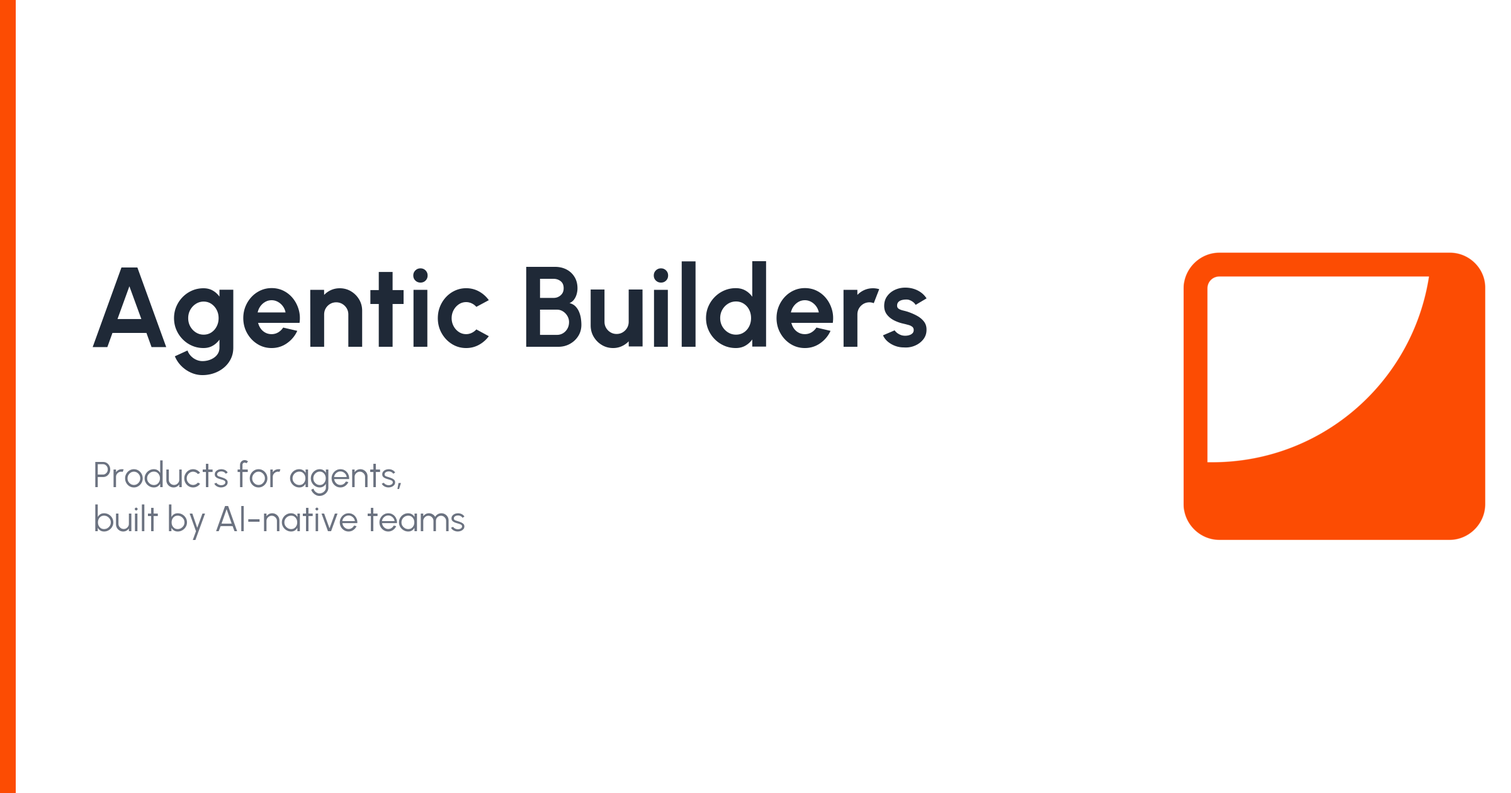
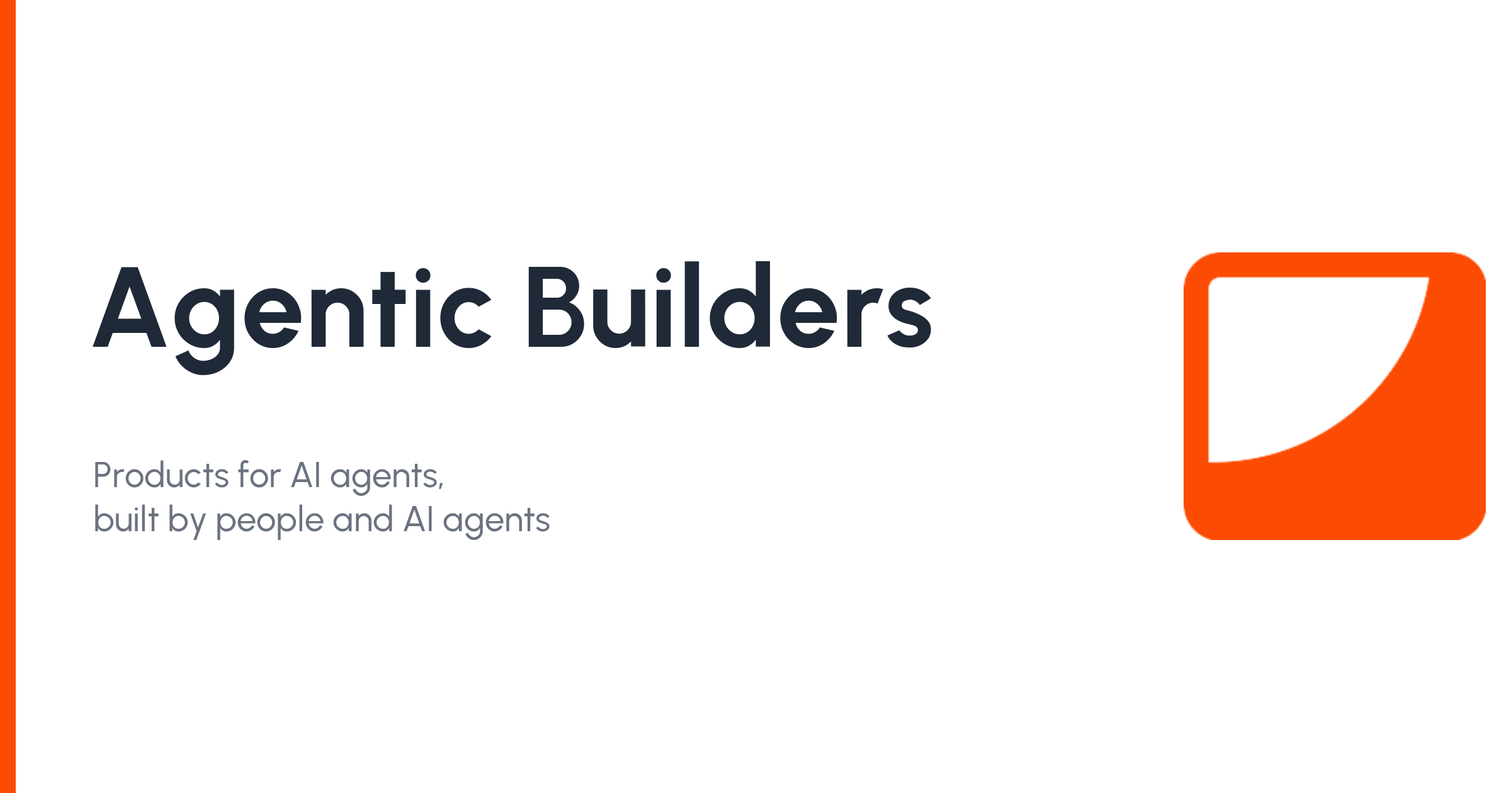
Distinguish AI agents from broader AI throughout fund copy

diff --git a/docs/portfolio/index.html b/docs/portfolio/index.html
@@ -7,8 +7,8 @@
 <meta name="theme-color" content="#FFFFFF">
 <meta name="color-scheme" content="light">
 <link rel="canonical" href="https://agenticbuilders.ai/portfolio/">
-<meta property="og:type" content="website"><meta property="og:url" content="https://agenticbuilders.ai/portfolio/"><meta property="og:title" content="Portfolio — Agentic Builders"><meta property="og:description" content="Meet the startups backed by Agentic Builders. Angels and VCs can contact us about portfolio companies and request introductions."><meta property="og:image" content="https://agenticbuilders.ai/og-image.png"><meta property="og:image:width" content="1200"><meta property="og:image:height" content="630"><meta property="og:image:alt" content="Agentic Builders"><meta property="og:site_name" content="Agentic Builders">
-<meta name="twitter:card" content="summary_large_image"><meta name="twitter:title" content="Portfolio — Agentic Builders"><meta name="twitter:description" content="Meet the startups backed by Agentic Builders. Angels and VCs can contact us about portfolio companies and request introductions."><meta name="twitter:image" content="https://agenticbuilders.ai/og-image.png">
+<meta property="og:type" content="website"><meta property="og:url" content="https://agenticbuilders.ai/portfolio/"><meta property="og:title" content="Portfolio — Agentic Builders"><meta property="og:description" content="Meet the startups backed by Agentic Builders. Angels and VCs can contact us about portfolio companies and request introductions."><meta property="og:image" content="https://agenticbuilders.ai/og-image.png?v=3"><meta property="og:image:width" content="1200"><meta property="og:image:height" content="630"><meta property="og:image:alt" content="Agentic Builders"><meta property="og:site_name" content="Agentic Builders">
+<meta name="twitter:card" content="summary_large_image"><meta name="twitter:title" content="Portfolio — Agentic Builders"><meta name="twitter:description" content="Meet the startups backed by Agentic Builders. Angels and VCs can contact us about portfolio companies and request introductions."><meta name="twitter:image" content="https://agenticbuilders.ai/og-image.png?v=3">
 <link rel="icon" type="image/svg+xml" href="../favicon.svg"><link rel="icon" type="image/x-icon" href="../favicon.ico"><link rel="apple-touch-icon" href="../apple-touch-icon.png">
 <link rel="describedby" type="text/plain" href="../llms.txt" title="llms.txt">
 <link rel="preconnect" href="https://fonts.googleapis.com"><link rel="preconnect" href="https://fonts.gstatic.com" crossorigin>
@@ -84,7 +84,7 @@
     <h1>Our portfolio</h1>
     <p class="lead2">Meet the companies we back: products AI agents use and tools for building agent products.</p>
     <div class="cta"><a class="pill pill-ghost" href="#introductions">For angels &amp; VCs</a></div>
-    <ul class="plist plist-detailed"><li class="rv"><a href="https://eqvesta.com/" target="_blank" rel="noopener"><img src="../portfolio-logos/eqvesta-logo.png" alt="" width="28" height="28" loading="lazy"><b>Eqvesta</b><span class="portfolio-summary">AI-native digital family office.</span><p class="portfolio-description">Developing an AI back office that brings accounts across countries and currencies into one view, tracks filing deadlines and prepares documents for a CPA. It does not hold or move money.</p></a></li><li class="rv"><a href="https://silow.ai" target="_blank" rel="noopener"><img src="../portfolio-logos/silow-logo.png" alt="" width="28" height="28" loading="lazy"><b>Silow</b><span class="portfolio-summary">Prioritized plans for AI adoption.</span><p class="portfolio-description">Maps how a team works across its existing tools and ranks automation opportunities by expected payback. Companies get an AI roadmap they own, with recommendations on what to automate and how to measure the results.</p></a></li><li class="rv"><a href="https://heron.ing/" target="_blank" rel="noopener"><img src="../portfolio-logos/heron-logo.svg" alt="" width="28" height="28" loading="lazy"><b>Heron</b><span class="portfolio-summary">Governance for AI agents.</span><p class="portfolio-description">Maps a company’s agents, processes and ownership. When people, agents or workflows change, it identifies what is affected and prepares updates for a person to approve.</p></a></li><li class="rv"><a href="https://kone.vc" target="_blank" rel="noopener"><img src="../portfolio-logos/kone-logo.svg" alt="" width="28" height="28" loading="lazy"><b>kone</b><span class="portfolio-summary">AI adoption for businesses.</span><p class="portfolio-description">Helps companies adopt ChatGPT Business, automate internal processes and build tailored AI applications. Provides training and implementation resources to help teams use AI in their daily work.</p></a></li><li class="rv"><a href="https://agentiqa.com" target="_blank" rel="noopener"><img src="../portfolio-logos/agentiqa-icon.png" alt="" width="28" height="28" loading="lazy"><b>Agentiqa</b><span class="portfolio-summary">Release checks for AI agents.</span><p class="portfolio-description">Checks what AI agents write to business systems such as ERP, CRM and billing. Tests data accuracy, retries and misuse before release, blocking releases when checks fail.</p></a></li><li class="rv"><a href="https://theona.ai" target="_blank" rel="noopener"><img src="../portfolio-logos/theona-logo.svg" alt="" width="28" height="28" loading="lazy"><b>Theona</b><span class="portfolio-summary">AI agents for team workflows.</span><p class="portfolio-description">Maps how teams work across conversations, meetings and task trackers, then builds agents into existing tools such as Slack, Teams and CRM systems. Agents start in draft mode for human review.</p></a></li><li class="rv"><a href="https://hookradar.net" target="_blank" rel="noopener"><img src="../portfolio-logos/hookradar-logo.png" alt="" width="28" height="28" loading="lazy"><b>HookRadar</b><span class="portfolio-summary">AI creative intelligence for marketers.</span><p class="portfolio-description">Analyzes live ads, organic content and competitor activity to identify creative patterns. Turns those signals into prioritized ideas and briefs that marketing teams can use to plan their next tests.</p></a></li><li class="rv"><a href="https://visibilitypro.ai" target="_blank" rel="noopener"><img src="../portfolio-logos/visibilitypro-logo.svg" alt="" width="28" height="28" loading="lazy"><b>VisibilityPro</b><span class="portfolio-summary">AI search visibility agency.</span><p class="portfolio-description">Combines technical website improvements, content production and external mentions to help brands appear in AI answers. Uses AI agents with human review and measures mentions, citations and referral traffic.</p></a></li><li class="rv"><a href="https://aprena.academy/" target="_blank" rel="noopener"><img src="../portfolio-logos/aprena-academy-icon.png" alt="" width="28" height="28" loading="lazy"><b>Aprena Academy</b><span class="portfolio-summary">AI-assisted career planning.</span><p class="portfolio-description">Helps experienced professionals explore realistic career paths using their existing skills, job market data and human support. Identifies skill gaps and offers practical learning and regular progress updates.</p></a></li><li class="rv"><a href="https://fina.team/" target="_blank" rel="noopener"><img src="../portfolio-logos/fina-logo.png" alt="" width="28" height="28" loading="lazy"><b>Fina</b><span class="portfolio-summary">AI agents for finance teams.</span><p class="portfolio-description">Processes invoices and bank statements, matches transactions with documents and prepares financial reports. Delivers files for finance teams to review and upload to their accounting systems.</p></a></li></ul>
+    <ul class="plist plist-detailed"><li class="rv"><a href="https://eqvesta.com/" target="_blank" rel="noopener"><img src="../portfolio-logos/eqvesta-logo.png" alt="" width="28" height="28" loading="lazy"><b>Eqvesta</b><span class="portfolio-summary">Digital family office with AI agents.</span><p class="portfolio-description">Developing AI agents that bring accounts across countries and currencies into one view, track filing deadlines and prepare documents for a CPA. It does not hold or move money.</p></a></li><li class="rv"><a href="https://silow.ai" target="_blank" rel="noopener"><img src="../portfolio-logos/silow-logo.png" alt="" width="28" height="28" loading="lazy"><b>Silow</b><span class="portfolio-summary">Prioritized plans for AI adoption.</span><p class="portfolio-description">Maps how a team works across its existing tools and ranks automation opportunities by expected payback. Companies get an AI roadmap they own, with recommendations on what to automate and how to measure the results.</p></a></li><li class="rv"><a href="https://heron.ing/" target="_blank" rel="noopener"><img src="../portfolio-logos/heron-logo.svg" alt="" width="28" height="28" loading="lazy"><b>Heron</b><span class="portfolio-summary">Governance for AI agents.</span><p class="portfolio-description">Maps a company’s agents, processes and ownership. When people, agents or workflows change, it identifies what is affected and prepares updates for a person to approve.</p></a></li><li class="rv"><a href="https://kone.vc" target="_blank" rel="noopener"><img src="../portfolio-logos/kone-logo.svg" alt="" width="28" height="28" loading="lazy"><b>kone</b><span class="portfolio-summary">AI adoption for businesses.</span><p class="portfolio-description">Helps companies adopt ChatGPT Business, automate internal processes and build tailored AI applications. Provides training and implementation resources to help teams use AI in their daily work.</p></a></li><li class="rv"><a href="https://agentiqa.com" target="_blank" rel="noopener"><img src="../portfolio-logos/agentiqa-icon.png" alt="" width="28" height="28" loading="lazy"><b>Agentiqa</b><span class="portfolio-summary">Release checks for AI agents.</span><p class="portfolio-description">Checks what AI agents write to business systems such as ERP, CRM and billing. Tests data accuracy, retries and misuse before release, blocking releases when checks fail.</p></a></li><li class="rv"><a href="https://theona.ai" target="_blank" rel="noopener"><img src="../portfolio-logos/theona-logo.svg" alt="" width="28" height="28" loading="lazy"><b>Theona</b><span class="portfolio-summary">AI agents for team workflows.</span><p class="portfolio-description">Maps how teams work across conversations, meetings and task trackers, then builds agents into existing tools such as Slack, Teams and CRM systems. Agents start in draft mode for human review.</p></a></li><li class="rv"><a href="https://hookradar.net" target="_blank" rel="noopener"><img src="../portfolio-logos/hookradar-logo.png" alt="" width="28" height="28" loading="lazy"><b>HookRadar</b><span class="portfolio-summary">AI agents for marketing teams.</span><p class="portfolio-description">Uses AI agents to find creative patterns in live ads, organic content and competitor activity. Turns those signals into prioritized ideas and briefs that marketing teams can use to plan their next tests.</p></a></li><li class="rv"><a href="https://visibilitypro.ai" target="_blank" rel="noopener"><img src="../portfolio-logos/visibilitypro-logo.svg" alt="" width="28" height="28" loading="lazy"><b>VisibilityPro</b><span class="portfolio-summary">AI search visibility agency.</span><p class="portfolio-description">Combines technical website improvements, content production and external mentions to help brands appear in AI answers. Uses AI agents with human review and measures mentions, citations and referral traffic.</p></a></li><li class="rv"><a href="https://aprena.academy/" target="_blank" rel="noopener"><img src="../portfolio-logos/aprena-academy-icon.png" alt="" width="28" height="28" loading="lazy"><b>Aprena Academy</b><span class="portfolio-summary">AI-assisted career planning.</span><p class="portfolio-description">Helps experienced professionals explore realistic career paths using their existing skills, job market data and human support. Identifies skill gaps and offers practical learning and regular progress updates.</p></a></li><li class="rv"><a href="https://fina.team/" target="_blank" rel="noopener"><img src="../portfolio-logos/fina-logo.png" alt="" width="28" height="28" loading="lazy"><b>Fina</b><span class="portfolio-summary">AI agents for finance teams.</span><p class="portfolio-description">Processes invoices and bank statements, matches transactions with documents and prepares financial reports. Delivers files for finance teams to review and upload to their accounting systems.</p></a></li></ul>
 <p class="fine portfolio-date">Last update: <time datetime="2026-10-20">October 20, 2026</time></p>
 
   </section>

diff --git a/docs/index.html b/docs/index.html
@@ -7,8 +7,8 @@
 <meta name="theme-color" content="#FFFFFF">
 <meta name="color-scheme" content="light">
 <link rel="canonical" href="https://agenticbuilders.ai/">
-<meta property="og:type" content="website"><meta property="og:url" content="https://agenticbuilders.ai/"><meta property="og:title" content="Agentic Builders — Early-stage fund for agent-native products"><meta property="og:description" content="Funding for agent-native products from idea to pre-seed. Investments of $30–100k, with a four-week investment track for invited teams."><meta property="og:image" content="https://agenticbuilders.ai/og-image.png"><meta property="og:image:width" content="1200"><meta property="og:image:height" content="630"><meta property="og:image:alt" content="Agentic Builders"><meta property="og:site_name" content="Agentic Builders">
-<meta name="twitter:card" content="summary_large_image"><meta name="twitter:title" content="Agentic Builders — Early-stage fund for agent-native products"><meta name="twitter:description" content="Funding for agent-native products from idea to pre-seed. Investments of $30–100k, with a four-week investment track for invited teams."><meta name="twitter:image" content="https://agenticbuilders.ai/og-image.png">
+<meta property="og:type" content="website"><meta property="og:url" content="https://agenticbuilders.ai/"><meta property="og:title" content="Agentic Builders — Early-stage fund for agent-native products"><meta property="og:description" content="Funding for agent-native products from idea to pre-seed. Investments of $30–100k, with a four-week investment track for invited teams."><meta property="og:image" content="https://agenticbuilders.ai/og-image.png?v=3"><meta property="og:image:width" content="1200"><meta property="og:image:height" content="630"><meta property="og:image:alt" content="Agentic Builders"><meta property="og:site_name" content="Agentic Builders">
+<meta name="twitter:card" content="summary_large_image"><meta name="twitter:title" content="Agentic Builders — Early-stage fund for agent-native products"><meta name="twitter:description" content="Funding for agent-native products from idea to pre-seed. Investments of $30–100k, with a four-week investment track for invited teams."><meta name="twitter:image" content="https://agenticbuilders.ai/og-image.png?v=3">
 <link rel="icon" type="image/svg+xml" href="favicon.svg"><link rel="icon" type="image/x-icon" href="favicon.ico"><link rel="apple-touch-icon" href="apple-touch-icon.png">
 <link rel="describedby" type="text/plain" href="llms.txt" title="llms.txt">
 <link rel="preconnect" href="https://fonts.googleapis.com"><link rel="preconnect" href="https://fonts.gstatic.com" crossorigin>
@@ -174,7 +174,7 @@
 
     <section id="who">
       <h2 class="t rv">Who we back</h2>
-      <p class="body-copy rv">We back AI-native teams that build lean companies with AI at the core of product development and day-to-day operations.</p>
+      <p class="body-copy rv">We back founders who build lean teams of people and AI agents, using agents across product development and day-to-day operations.</p>
       <p class="body-copy rv">Three things we look for:</p>
       <ol class="five rv"><li><span class="n">1</span><span><b>Experience.</b> You have built a startup, product or team before, and know what it takes.</span></li><li><span class="n">2</span><span><b>Founder-led sales.</b> Founders talk directly to customers and can secure a pilot or close a sale.</span></li><li><span class="n">3</span><span><b>Iteration speed.</b> You ship, test, learn and improve quickly.</span></li></ol>
       <p class="fine section-note rv">None of these is a formal requirement; together, they help us assess a team's potential.</p>
@@ -190,14 +190,14 @@
         
         <li class="note stage rv" style="--r:1deg"><span class="mn">2</span><h3>An investment decision</h3><p>At the end of the four weeks, the fund’s investment partners decide whether to invest and explain their decision. If we do not invest, we explain when it makes sense to come back.</p><ul class="gets"><li>Investment of $30–100k on a standard post-money SAFE</li><li>Valuation agreed with you, not a fixed share</li><li>Participation in the investment track is free, with no equity requirement or exclusivity</li></ul></li>
         
-        <li class="note stage rv" style="--r:-1deg"><span class="mn">3</span><h3>Help with your next round</h3><p>After investing, we help you raise your next funding round. We do not invest additional money in later rounds; we help you connect with other investors.</p><ul class="gets"><li>A list of relevant investors and personal introductions to investors who fund your next stage</li><li>A community of founders and weekly meetings with the fund team</li><li>One-on-one sessions with Nikolay Vyahhi, the fund’s general partner, and founder discussion groups on AI engineering, product development and sales</li><li>Additional software credits and discounts</li></ul></li>
+        <li class="note stage rv" style="--r:-1deg"><span class="mn">3</span><h3>Help with your next round</h3><p>After investing, we help you raise your next funding round. We do not invest additional money in later rounds; we help you connect with other investors.</p><ul class="gets"><li>A list of relevant investors and personal introductions to investors who fund your next stage</li><li>A community of founders and weekly meetings with the fund team</li><li>One-on-one sessions with Nikolay Vyahhi, the fund’s general partner, and founder discussion groups on building AI agents, product development and sales</li><li>Additional software credits and discounts</li></ul></li>
         
       </ol>
       <p class="fine section-note rv">Every application gets a reply. Application review has no fixed turnaround time; the four-week investment track begins only after an invitation. During the investment track, we ask for a short weekly progress update. Participation is free and requires no equity or exclusivity. Any investment is agreed separately.</p>
     </section>
 
     <section id="portfolio">
-      <h2 class="t rv">A few companies we back</h2><ul class="plist"><li class="rv"><a href="https://silow.ai" target="_blank" rel="noopener"><img src="portfolio-logos/silow-logo.png" alt="" width="28" height="28" loading="lazy"><b>Silow</b><span class="portfolio-summary">Prioritized plans for AI adoption.</span></a></li><li class="rv"><a href="https://eqvesta.com/" target="_blank" rel="noopener"><img src="portfolio-logos/eqvesta-logo.png" alt="" width="28" height="28" loading="lazy"><b>Eqvesta</b><span class="portfolio-summary">AI-native digital family office.</span></a></li><li class="rv"><a href="https://agentiqa.com" target="_blank" rel="noopener"><img src="portfolio-logos/agentiqa-icon.png" alt="" width="28" height="28" loading="lazy"><b>Agentiqa</b><span class="portfolio-summary">Release checks for AI agents.</span></a></li><li class="rv"><a href="https://heron.ing/" target="_blank" rel="noopener"><img src="portfolio-logos/heron-logo.svg" alt="" width="28" height="28" loading="lazy"><b>Heron</b><span class="portfolio-summary">Governance for AI agents.</span></a></li><li class="rv"><a href="https://kone.vc" target="_blank" rel="noopener"><img src="portfolio-logos/kone-logo.svg" alt="" width="28" height="28" loading="lazy"><b>kone</b><span class="portfolio-summary">AI adoption for businesses.</span></a></li><li class="rv"><a href="https://visibilitypro.ai" target="_blank" rel="noopener"><img src="portfolio-logos/visibilitypro-logo.svg" alt="" width="28" height="28" loading="lazy"><b>VisibilityPro</b><span class="portfolio-summary">AI search visibility agency.</span></a></li></ul>
+      <h2 class="t rv">A few companies we back</h2><ul class="plist"><li class="rv"><a href="https://silow.ai" target="_blank" rel="noopener"><img src="portfolio-logos/silow-logo.png" alt="" width="28" height="28" loading="lazy"><b>Silow</b><span class="portfolio-summary">Prioritized plans for AI adoption.</span></a></li><li class="rv"><a href="https://eqvesta.com/" target="_blank" rel="noopener"><img src="portfolio-logos/eqvesta-logo.png" alt="" width="28" height="28" loading="lazy"><b>Eqvesta</b><span class="portfolio-summary">Digital family office with AI agents.</span></a></li><li class="rv"><a href="https://agentiqa.com" target="_blank" rel="noopener"><img src="portfolio-logos/agentiqa-icon.png" alt="" width="28" height="28" loading="lazy"><b>Agentiqa</b><span class="portfolio-summary">Release checks for AI agents.</span></a></li><li class="rv"><a href="https://heron.ing/" target="_blank" rel="noopener"><img src="portfolio-logos/heron-logo.svg" alt="" width="28" height="28" loading="lazy"><b>Heron</b><span class="portfolio-summary">Governance for AI agents.</span></a></li><li class="rv"><a href="https://kone.vc" target="_blank" rel="noopener"><img src="portfolio-logos/kone-logo.svg" alt="" width="28" height="28" loading="lazy"><b>kone</b><span class="portfolio-summary">AI adoption for businesses.</span></a></li><li class="rv"><a href="https://visibilitypro.ai" target="_blank" rel="noopener"><img src="portfolio-logos/visibilitypro-logo.svg" alt="" width="28" height="28" loading="lazy"><b>VisibilityPro</b><span class="portfolio-summary">AI search visibility agency.</span></a></li></ul>
 <p class="fine portfolio-date">Last update: <time datetime="2026-10-20">October 20, 2026</time></p>
 
       <div class="cta rv"><a class="pill pill-ghost" href="portfolio/index.html">View all 10 companies</a></div>
@@ -219,7 +219,7 @@
 
   <aside class="panel">
     <p class="panel-title">Early-stage fund for agent-native products</p>
-    <p>Products agents use and tools for building agent products. From idea to pre-seed, for founders who build with people and agents.</p>
+    <p>Products agents use and tools for building agent products. From idea to pre-seed, for founders who build with people and AI agents.</p>
     <ul class="facts"><li><span>Investment track</span><span class="fact-value"><b>4 weeks</b><small>Fully online</small></span></li><li><span>Investment</span><span class="fact-value"><b>$30–100k</b></span></li></ul>
     <nav class="toc" aria-label="Sections"><a href="#thesis">Thesis</a><a href="#who">Who we back</a><a href="#track">Investment track</a><a href="portfolio/index.html">Portfolio</a><a href="team/index.html">Team</a><a href="#faq">Questions</a></nav>
   </aside>

diff --git a/docs/privacy/index.html b/docs/privacy/index.html
@@ -7,8 +7,8 @@
 <meta name="theme-color" content="#FFFFFF">
 <meta name="color-scheme" content="light">
 <link rel="canonical" href="https://agenticbuilders.ai/privacy/">
-<meta property="og:type" content="website"><meta property="og:url" content="https://agenticbuilders.ai/privacy/"><meta property="og:title" content="Privacy policy — Agentic Builders"><meta property="og:description" content="How Agentic Builders handles personal data from applications, progress updates, meetings and the newsletter."><meta property="og:image" content="https://agenticbuilders.ai/og-image.png"><meta property="og:image:width" content="1200"><meta property="og:image:height" content="630"><meta property="og:image:alt" content="Agentic Builders"><meta property="og:site_name" content="Agentic Builders">
-<meta name="twitter:card" content="summary_large_image"><meta name="twitter:title" content="Privacy policy — Agentic Builders"><meta name="twitter:description" content="How Agentic Builders handles personal data from applications, progress updates, meetings and the newsletter."><meta name="twitter:image" content="https://agenticbuilders.ai/og-image.png">
+<meta property="og:type" content="website"><meta property="og:url" content="https://agenticbuilders.ai/privacy/"><meta property="og:title" content="Privacy policy — Agentic Builders"><meta property="og:description" content="How Agentic Builders handles personal data from applications, progress updates, meetings and the newsletter."><meta property="og:image" content="https://agenticbuilders.ai/og-image.png?v=3"><meta property="og:image:width" content="1200"><meta property="og:image:height" content="630"><meta property="og:image:alt" content="Agentic Builders"><meta property="og:site_name" content="Agentic Builders">
+<meta name="twitter:card" content="summary_large_image"><meta name="twitter:title" content="Privacy policy — Agentic Builders"><meta name="twitter:description" content="How Agentic Builders handles personal data from applications, progress updates, meetings and the newsletter."><meta name="twitter:image" content="https://agenticbuilders.ai/og-image.png?v=3">
 <link rel="icon" type="image/svg+xml" href="../favicon.svg"><link rel="icon" type="image/x-icon" href="../favicon.ico"><link rel="apple-touch-icon" href="../apple-touch-icon.png">
 <link rel="describedby" type="text/plain" href="../llms.txt" title="llms.txt">
 <link rel="preconnect" href="https://fonts.googleapis.com"><link rel="preconnect" href="https://fonts.gstatic.com" crossorigin>
@@ -103,7 +103,7 @@
       <li>To improve our selection process, using aggregated information.</li>
     </ul>
 
-    <h2>AI processing</h2>
+    <h2>Processing by AI agents</h2>
     <p>Applications, pitch decks and progress updates are read and summarized by software agents run by the fund. These agents use large language models provided by third parties. The fund’s investment partners make investment decisions; the AI agents help prepare the information they review.</p>
 
     <h2>Who sees it</h2>

diff --git a/docs/team/index.html b/docs/team/index.html
@@ -7,8 +7,8 @@
 <meta name="theme-color" content="#FFFFFF">
 <meta name="color-scheme" content="light">
 <link rel="canonical" href="https://agenticbuilders.ai/team/">
-<meta property="og:type" content="website"><meta property="og:url" content="https://agenticbuilders.ai/team/"><meta property="og:title" content="Team — Agentic Builders"><meta property="og:description" content="Meet the people behind Agentic Builders and learn how our AI agent, Abi, supports the team. The fund’s investment partners make investment decisions."><meta property="og:image" content="https://agenticbuilders.ai/og-image.png"><meta property="og:image:width" content="1200"><meta property="og:image:height" content="630"><meta property="og:image:alt" content="Agentic Builders"><meta property="og:site_name" content="Agentic Builders">
-<meta name="twitter:card" content="summary_large_image"><meta name="twitter:title" content="Team — Agentic Builders"><meta name="twitter:description" content="Meet the people behind Agentic Builders and learn how our AI agent, Abi, supports the team. The fund’s investment partners make investment decisions."><meta name="twitter:image" content="https://agenticbuilders.ai/og-image.png">
+<meta property="og:type" content="website"><meta property="og:url" content="https://agenticbuilders.ai/team/"><meta property="og:title" content="Team — Agentic Builders"><meta property="og:description" content="Meet the people behind Agentic Builders and learn how our AI agent, Abi, supports the team. The fund’s investment partners make investment decisions."><meta property="og:image" content="https://agenticbuilders.ai/og-image.png?v=3"><meta property="og:image:width" content="1200"><meta property="og:image:height" content="630"><meta property="og:image:alt" content="Agentic Builders"><meta property="og:site_name" content="Agentic Builders">
+<meta name="twitter:card" content="summary_large_image"><meta name="twitter:title" content="Team — Agentic Builders"><meta name="twitter:description" content="Meet the people behind Agentic Builders and learn how our AI agent, Abi, supports the team. The fund’s investment partners make investment decisions."><meta name="twitter:image" content="https://agenticbuilders.ai/og-image.png?v=3">
 <link rel="icon" type="image/svg+xml" href="../favicon.svg"><link rel="icon" type="image/x-icon" href="../favicon.ico"><link rel="apple-touch-icon" href="../apple-touch-icon.png">
 <link rel="describedby" type="text/plain" href="../llms.txt" title="llms.txt">
 <link rel="preconnect" href="https://fonts.googleapis.com"><link rel="preconnect" href="https://fonts.gstatic.com" crossorigin>

diff --git a/docs/investors/index.html b/docs/investors/index.html
@@ -7,8 +7,8 @@
 <meta name="theme-color" content="#FFFFFF">
 <meta name="color-scheme" content="light">
 <link rel="canonical" href="https://agenticbuilders.ai/portfolio/">
-<meta property="og:type" content="website"><meta property="og:url" content="https://agenticbuilders.ai/investors/"><meta property="og:title" content="Portfolio introductions — Agentic Builders"><meta property="og:description" content="Angels and VCs: visit our portfolio to explore companies and request introductions."><meta property="og:image" content="https://agenticbuilders.ai/og-image.png"><meta property="og:image:width" content="1200"><meta property="og:image:height" content="630"><meta property="og:image:alt" content="Agentic Builders"><meta property="og:site_name" content="Agentic Builders">
-<meta name="twitter:card" content="summary_large_image"><meta name="twitter:title" content="Portfolio introductions — Agentic Builders"><meta name="twitter:description" content="Angels and VCs: visit our portfolio to explore companies and request introductions."><meta name="twitter:image" content="https://agenticbuilders.ai/og-image.png">
+<meta property="og:type" content="website"><meta property="og:url" content="https://agenticbuilders.ai/investors/"><meta property="og:title" content="Portfolio introductions — Agentic Builders"><meta property="og:description" content="Angels and VCs: visit our portfolio to explore companies and request introductions."><meta property="og:image" content="https://agenticbuilders.ai/og-image.png?v=3"><meta property="og:image:width" content="1200"><meta property="og:image:height" content="630"><meta property="og:image:alt" content="Agentic Builders"><meta property="og:site_name" content="Agentic Builders">
+<meta name="twitter:card" content="summary_large_image"><meta name="twitter:title" content="Portfolio introductions — Agentic Builders"><meta name="twitter:description" content="Angels and VCs: visit our portfolio to explore companies and request introductions."><meta name="twitter:image" content="https://agenticbuilders.ai/og-image.png?v=3">
 <link rel="icon" type="image/svg+xml" href="../favicon.svg"><link rel="icon" type="image/x-icon" href="../favicon.ico"><link rel="apple-touch-icon" href="../apple-touch-icon.png">
 <link rel="describedby" type="text/plain" href="../llms.txt" title="llms.txt">
 <link rel="preconnect" href="https://fonts.googleapis.com"><link rel="preconnect" href="https://fonts.gstatic.com" crossorigin>

diff --git a/docs/legal/index.html b/docs/legal/index.html
@@ -7,8 +7,8 @@
 <meta name="theme-color" content="#FFFFFF">
 <meta name="color-scheme" content="light">
 <link rel="canonical" href="https://agenticbuilders.ai/legal/">
-<meta property="og:type" content="website"><meta property="og:url" content="https://agenticbuilders.ai/legal/"><meta property="og:title" content="Legal notice — Agentic Builders"><meta property="og:description" content="Legal notice and disclaimers for agenticbuilders.ai."><meta property="og:image" content="https://agenticbuilders.ai/og-image.png"><meta property="og:image:width" content="1200"><meta property="og:image:height" content="630"><meta property="og:image:alt" content="Agentic Builders"><meta property="og:site_name" content="Agentic Builders">
-<meta name="twitter:card" content="summary_large_image"><meta name="twitter:title" content="Legal notice — Agentic Builders"><meta name="twitter:description" content="Legal notice and disclaimers for agenticbuilders.ai."><meta name="twitter:image" content="https://agenticbuilders.ai/og-image.png">
+<meta property="og:type" content="website"><meta property="og:url" content="https://agenticbuilders.ai/legal/"><meta property="og:title" content="Legal notice — Agentic Builders"><meta property="og:description" content="Legal notice and disclaimers for agenticbuilders.ai."><meta property="og:image" content="https://agenticbuilders.ai/og-image.png?v=3"><meta property="og:image:width" content="1200"><meta property="og:image:height" content="630"><meta property="og:image:alt" content="Agentic Builders"><meta property="og:site_name" content="Agentic Builders">
+<meta name="twitter:card" content="summary_large_image"><meta name="twitter:title" content="Legal notice — Agentic Builders"><meta name="twitter:description" content="Legal notice and disclaimers for agenticbuilders.ai."><meta name="twitter:image" content="https://agenticbuilders.ai/og-image.png?v=3">
 <link rel="icon" type="image/svg+xml" href="../favicon.svg"><link rel="icon" type="image/x-icon" href="../favicon.ico"><link rel="apple-touch-icon" href="../apple-touch-icon.png">
 <link rel="describedby" type="text/plain" href="../llms.txt" title="llms.txt">
 <link rel="preconnect" href="https://fonts.googleapis.com"><link rel="preconnect" href="https://fonts.gstatic.com" crossorigin>

diff --git a/docs/404.html b/docs/404.html
@@ -7,8 +7,8 @@
 <meta name="theme-color" content="#FFFFFF">
 <meta name="color-scheme" content="light">
 <link rel="canonical" href="https://agenticbuilders.ai/404.html">
-<meta property="og:type" content="website"><meta property="og:url" content="https://agenticbuilders.ai/404.html"><meta property="og:title" content="Page not found — Agentic Builders"><meta property="og:description" content="Page not found."><meta property="og:image" content="https://agenticbuilders.ai/og-image.png"><meta property="og:image:width" content="1200"><meta property="og:image:height" content="630"><meta property="og:image:alt" content="Agentic Builders"><meta property="og:site_name" content="Agentic Builders">
-<meta name="twitter:card" content="summary_large_image"><meta name="twitter:title" content="Page not found — Agentic Builders"><meta name="twitter:description" content="Page not found."><meta name="twitter:image" content="https://agenticbuilders.ai/og-image.png">
+<meta property="og:type" content="website"><meta property="og:url" content="https://agenticbuilders.ai/404.html"><meta property="og:title" content="Page not found — Agentic Builders"><meta property="og:description" content="Page not found."><meta property="og:image" content="https://agenticbuilders.ai/og-image.png?v=3"><meta property="og:image:width" content="1200"><meta property="og:image:height" content="630"><meta property="og:image:alt" content="Agentic Builders"><meta property="og:site_name" content="Agentic Builders">
+<meta name="twitter:card" content="summary_large_image"><meta name="twitter:title" content="Page not found — Agentic Builders"><meta name="twitter:description" content="Page not found."><meta name="twitter:image" content="https://agenticbuilders.ai/og-image.png?v=3">
 <link rel="icon" type="image/svg+xml" href="/favicon.svg"><link rel="icon" type="image/x-icon" href="/favicon.ico"><link rel="apple-touch-icon" href="/apple-touch-icon.png">
 <link rel="describedby" type="text/plain" href="/llms.txt" title="llms.txt">
 <link rel="preconnect" href="https://fonts.googleapis.com"><link rel="preconnect" href="https://fonts.gstatic.com" crossorigin>

diff --git a/docs/brand/index.html b/docs/brand/index.html
@@ -10,7 +10,7 @@
     <meta property="og:url" content="https://agenticbuilders.ai/brand">
     <meta property="og:title" content="Brand — Agentic Builders">
     <meta property="og:description" content="Agentic Builders brand guidelines: logo, colors, typography, and usage rules.">
-    <meta property="og:image" content="https://agenticbuilders.ai/og-image.png?v=2">
+    <meta property="og:image" content="https://agenticbuilders.ai/og-image.png?v=3">
 
     <link rel="icon" type="image/svg+xml" href="../favicon.svg">
     <link rel="icon" type="image/x-icon" href="../favicon.ico">

diff --git a/src/README.md b/src/README.md
@@ -35,6 +35,7 @@ You can also open `docs/index.html` directly in a browser. Page links and assets
 ## Where to edit
 
 - **Shared content**: `src/content/fund.json`. The homepage copy is under `home`, page introductions under `portfolio` and `team_page`, the agent instructions and application schema under `agents`, shared facts (check, program, criteria, portfolio, FAQ, team) at the top level. Pages and machine files render from this file; some page-specific text lives in the templates.
+- **Terminology**: use “AI agents” when describing agents that do work, including teams of people and agents. Keep “AI” for broader concepts such as AI search, AI adoption, models and tokens; do not describe a product as agent-based unless its current offering supports that claim. Application field labels must continue to match the external form.
 - **Navigation labels and URLs**: `src/content/site.json`. `api_base_url` is reserved for the future application API.
 - **Templates**: `src/pages/*.njk` (pages), `src/pages/_includes/home.njk` (layout, shared header; footer markup is in `footer.njk`), `src/pages/llms-full.njk` (the full reference for AI agents), `src/pages/_includes/jsonld.njk`.
 - **Styles**: `src/assets/hero.css` (shared tokens), `home.css` (founders page and shared components), `pages.css`, and shared `footer.css`. Fonts: Urbanist, Inter, JetBrains Mono from Google Fonts.
